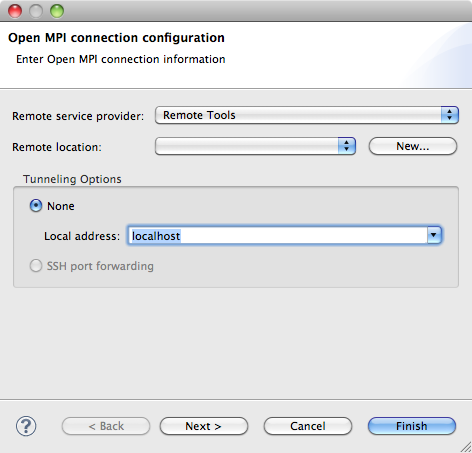
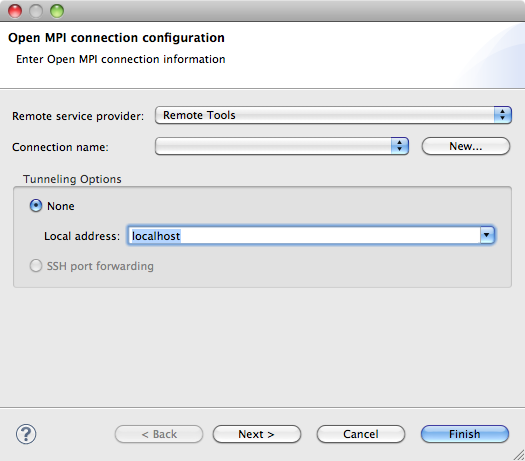
Updated

diff --git a/doc/org.eclipse.ptp.help/html/02resMgrSetup.html b/doc/org.eclipse.ptp.help/html/02resMgrSetup.html
@@ -61,8 +61,8 @@ Environment.</p><p><br></p>
 
 <h2 id="local">Step 2a: Configuring a local resource manager</h2>
 <p>
-In this example, we will show how to configure PTP to use a local resource manager, for example, where Eclipse is installed on the head node of a cluster. 
-This was the scenario that PTP 1.x handled.
+In this example, we will show how to configure PTP to use a local resource manager, for example, where Eclipse is installed on your desktop machine or
+the head node of a cluster.
 </p>
 <p>
 The <b>Open MPI connection configuration</b> dialog is used to configure how Eclipse will communicate with the Open MPI environment.
@@ -71,27 +71,27 @@ The <b>Open MPI connection configuration</b> dialog is used to configure how Ecl
 <ol>
 	<li>
 		<p>To configure the simple case of a local resource manager, select <b>Local</b> as the <b>Remote service provider</b>.
-		</p>
+		</p><p><br></p>
 		<p><img src="images/02-RM-OpenMPI-Connection-Local.png"></p>
 		<p><br></p>
 	</li>
 	
 	<li>
-		<p>For the local case, the <b>Proxy server location</b> will be automatically set to <b>Local</b>.
+		<p>For the local case, the <b>Connection name</b> will be automatically set to <b>Local</b>.
 		</p>
 		<p><br></p>
 	</li>
 
 	<li>
 		<p>
-		The <b>Multiplexing Options</b> allow communication to be tunneled over a single connection if necessary. 
-		For the local case, it is not required, and <b>None</b> should be selected.
+		The <b>Tunneling Options</b> allow communication to be tunneled over a single connection if necessary. 
+		For the local case, it is not required, and only <b>None</b> can be selected.
 		</p>
 		<p><br></p>
 	</li>
 
 	<li>
-		<p>The <b>Local address for proxy connection</b> should be set to the address of your local machine (its host name, IP address, or <code>localhost</code>).
+		<p>The <b>Local address for proxy connection</b> should be set to the local address of your local machine (<code>localhost</code>, or its host name or IP address).
 		</p>
 		<p><br></p>
 	</li>
@@ -106,8 +106,11 @@ controls a remote target system.
 
 <p>A remote resource manager allows PTP to control a remote target machine. To accomplish this, PTP uses the services of
 a <i>remote service provider</i>. Currently supported remote service providers include the <b>Remote Tools</b> package (a part
-of PTP) and the <b>Eclipse Remote Systems Explorer (RSE)</b> which is an optional package that can be installed at any time.</p> The
-only reason to use RSE rather than Remote Tools is if your remote system does not use the <code>ssh</code> protocol for remote connections,
+of PTP) and the <b>Eclipse Remote Systems Explorer (RSE)</b> which is an optional package that can be installed at any time. 
+<b>The preferred remote service provider is Remote Tools</b> which supports all PTP and Remote Development Tools (RDT) functionality.</p>
+
+RSE may be used if your remote system does not use the <code>ssh</code> 
+protocol for remote connections,
 or you wish to use the additional functionality that RSE provides. See the RSE documentation
 for more information. We will only consider Remote Tools here, but the steps for configuring RSE are similar.
 
@@ -123,7 +126,7 @@ for more information. We will only consider Remote Tools here, but the steps for
 	
 	<li>
 		<p>
-		At this point, you need to configure a <b>Proxy server location</b>.
+		At this point, you need to configure a <b>Connection name</b>.
 		This will differ depending on the remote service provider that you selected in the previous step. 
 		The following steps describe configuring a <b>Remote Tools</b> location.
 		</p>
@@ -151,14 +154,15 @@ for more information. We will only consider Remote Tools here, but the steps for
 	</ol>
 
 	<li>
-		<p>The <b>Multiplexing Options</b> allow communication to be tunneled over a single connection if supported by the remote service provider. 
-		To enable tunneling, select the <b>Use port forwarding</b> radio button.</p>
+		<p>The <b>Tunneling Options</b> allow communication to be tunneled over a single connection if supported by the remote service provider. 
+		To enable tunneling, select the <b>SSH port forwarding</b> radio button.</p>
 		<p><br></p>
 	</li>
 
 	<li>
 		<p>
-		If you don't wish to use port forwarding, select the <b>None</b> radio button and enter the address of your local machine (its host name, or IP address) in the <b>Local address for proxy connection</b> field. 
+		If you don't wish to use port forwarding, select the <b>None</b> radio button and enter the address of your local machine (its host name, or IP address) in 
+		the <b>Local address</b> field. You may need to reconfigure or disable the firewall on your local machine if this option is selection.
 		Note that if your site does not allow outbound connections from the remote machine to your local machine, then you <i>must</i> use port forwarding.</p>
 		<p><br></p>
 	</li>
@@ -167,7 +171,10 @@ for more information. We will only consider Remote Tools here, but the steps for
 </ol>
 
 <h2 id="spec">Step 3: Resource manager-specific configuration</h2>
-<p>The next page will show configuration information specific to a particular resource manager. 
+<p>The contents of the resource manager-specific configuration page will depend
+on the type of resource manager that was initially selected. In this section we will show how to configure an <b>Open MPI</b> resource manager.
+Please refer to the IBM PE, IBM LoadLeveler,
+PBS, or SLURM resource manager documentation for information on these systems.</p>
 In this case, the <b>Open MPI tool configuration</b> dialog is shown. 
 You will not normally need to change this information. Just leave the <b>Open MPI version</b> set to <b>Auto Detect</b>, 
 and default values will automatically loaded into the fields.</p>
